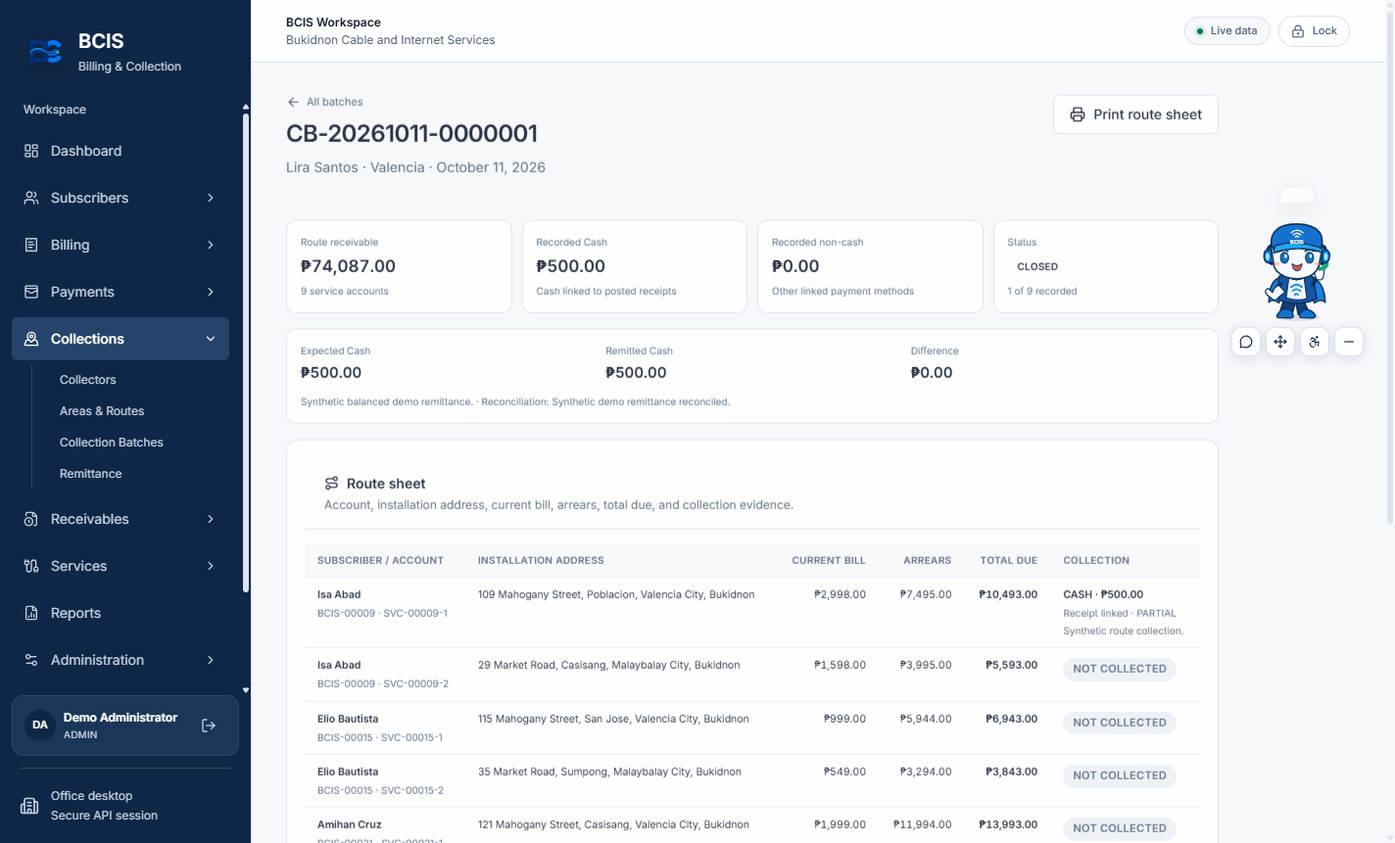
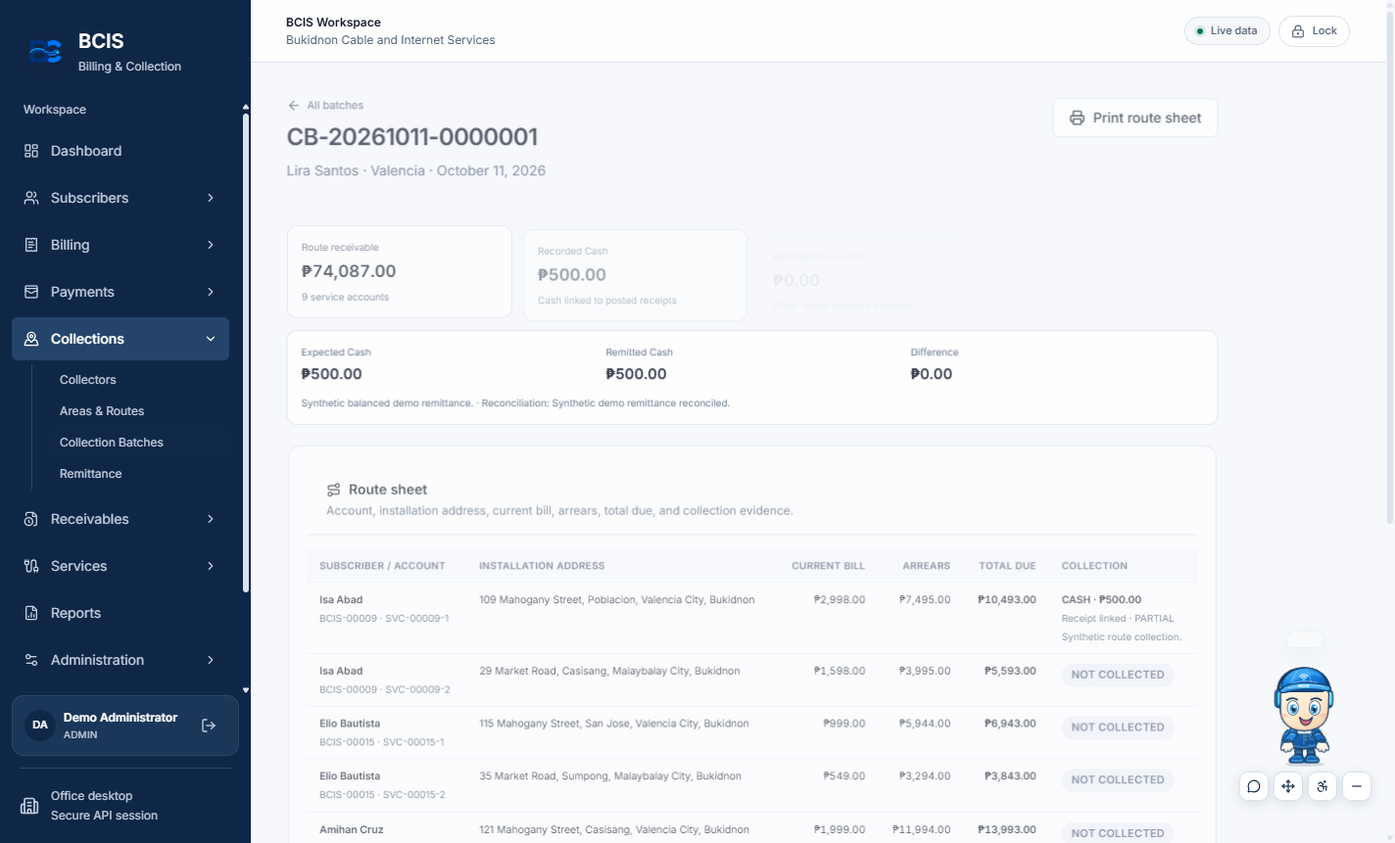
Refactor styles for improved motion and transitions; update backup and restore test evidence
- Removed redundant motion preferences from styles.css and added new animations for workspace elements.
- Updated collection-batch-detail screenshot to reflect recent UI changes.
- Modified backup and restore test evidence (AT-12) with new backup IDs, SHA256 hashes, and adjusted baseline and restored data.
- Updated offline cutover test evidence (AT-12-offline-cutover) with new backup ID, SHA256 hash, and verification timestamps.

diff --git a/apps/desktop/src/renderer/src/features/mascot/MascotCharacter.tsx b/apps/desktop/src/renderer/src/features/mascot/MascotCharacter.tsx
@@ -9,21 +9,27 @@ function WifiMark() {
 
 function Cap({ shadeId }: { shadeId: string }) {
   return <g className="buddy-cap" stroke="#153b68" strokeLinejoin="round" strokeWidth="2.35">
-    <path d="M47 65c1-16 12-26 25-30 13-4 29-3 40 3 11 6 17 16 18 29l-8 8H53z" fill={`url(#${shadeId})`} />
-    <path d="M53 65c22-8 52-8 78-1 7 2 9 7 2 10-23-5-50-5-80 3-9 1-12-5-4-8z" fill="#69caff" />
-    <path d="M67 61q23-9 48-1" fill="none" stroke="#a9e6ff" strokeLinecap="round" strokeWidth="1.4" />
-    <g transform="translate(88 47)" color="#e7f8ff" stroke="none"><WifiMark /></g>
+    <path d="M47 66c1-15 12-26 25-31 14-5 29-4 41 2 11 6 17 16 18 30l-8 8H53z" fill={`url(#${shadeId})`} />
+    <path d="M59 62c4-12 14-20 28-23 15-3 28 1 37 10-18-6-39-4-65 13z" fill="#83d8ff" opacity=".25" stroke="none" />
+    <path d="M77 38c-8 7-12 17-12 29m27-31c7 8 10 18 9 29" fill="none" stroke="#a8e5ff" strokeLinecap="round" strokeWidth="1.05" opacity=".72" />
+    <path d="M53 65c22-8 52-8 78-1 7 2 9 7 2 10-23-5-50-5-80 3-9 1-12-5-4-8z" fill="#47aefa" />
+    <path d="M58 69c23-6 46-7 68-3" fill="none" stroke="#a5e8ff" strokeLinecap="round" strokeWidth="1.4" />
+    <path d="M67 60q22-7 47-1" fill="none" stroke="#c5f1ff" strokeLinecap="round" strokeWidth="1.1" opacity=".8" />
+    <g transform="translate(88 47)" color="#f1fbff" stroke="none"><WifiMark /></g>
     <text x="88" y="67" fill="#f5fbff" stroke="none" textAnchor="middle" fontFamily="Inter, Segoe UI, sans-serif" fontSize="7.4" fontWeight="800" letterSpacing=".75">BCIS</text>
-    <path d="M54 74q32-7 72-1" fill="none" stroke="#0e4a8c" strokeLinecap="round" strokeWidth="1.3" />
+    <path d="M54 74q32-7 72-1" fill="none" stroke="#104b8b" strokeLinecap="round" strokeWidth="1.3" />
   </g>;
 }
 
 function Headphones() {
   return <g className="buddy-headphones" stroke="#12365d" strokeLinejoin="round">
-    <path d="M42 85V75c0-25 19-41 46-41s46 16 46 41v10" fill="none" stroke="#12365d" strokeLinecap="round" strokeWidth="5.5" />
-    <path d="M44 72h8v31h-8c-5 0-8-4-8-9V81c0-5 3-9 8-9m88 0h-8v31h8c5 0 8-4 8-9V81c0-5-3-9-8-9" fill="#2489e7" strokeWidth="2.2" />
-    <path d="M44 79h3v16h-3c-2 0-3-2-3-4v-8c0-2 1-4 3-4m88 0h-3v16h3c2 0 3-2 3-4v-8c0-2-1-4-3-4" fill="#8edcff" stroke="none" />
-    <path d="M45 75v6m86-6v6" stroke="#d9f6ff" strokeLinecap="round" strokeWidth="1.5" />
+    <path d="M42 83V75c0-25 19-41 46-41s46 16 46 41v8" fill="none" stroke="#12365d" strokeLinecap="round" strokeWidth="7" />
+    <path d="M44 76V75c0-22 18-36 44-36s44 14 44 36" fill="none" stroke="#54a9ef" strokeLinecap="round" strokeWidth="2.1" />
+    <path d="M44 71h9v34h-9c-6 0-9-4-9-10V81c0-6 3-10 9-10m88 0h-9v34h9c6 0 9-4 9-10V81c0-6-3-10-9-10" fill="#1679d2" strokeWidth="2.3" />
+    <path d="M45 75h5v26h-5c-4 0-6-3-6-7v-12c0-4 2-7 6-7m90 0h-5v26h5c4 0 6-3 6-7v-12c0-4-2-7-6-7" fill="#4dc9f5" strokeWidth="1.1" />
+    <path d="M46 79h3v18h-3c-2 0-3-2-3-4v-10c0-2 1-4 3-4m88 0h-3v18h3c2 0 3-2 3-4v-10c0-2-1-4-3-4" fill="#a5ebff" stroke="none" />
+    <path d="M44 77v5m92-5v5" stroke="#e0f8ff" strokeLinecap="round" strokeWidth="1.6" />
+    <path d="M42 101q4 4 10 2m76 0q6 2 10-2" fill="none" stroke="#0b4d94" strokeLinecap="round" strokeWidth="1.3" />
   </g>;
 }
 
@@ -34,13 +40,13 @@ function Eyes({ lidId, happy }: { lidId: string; happy: boolean }) {
     <path className="buddy-brow buddy-brow-right" d="M101 90q10-6 19 1" fill="none" stroke="#183c67" strokeLinecap="round" strokeWidth="3" />
     </g>
     <g className="buddy-eye buddy-eye-left">
-      <ellipse cx="68" cy="105" rx="9.7" ry="12.7" fill="#fff" stroke="#264a70" strokeWidth="1.35" />
-      <g className="buddy-iris"><ellipse cx="69" cy="107" rx="6.2" ry="8.1" fill="#2185dd" /><ellipse cx="69" cy="109" rx="3.2" ry="4.8" fill="#172f51" /><circle cx="71" cy="103" r="2.3" fill="#fff" /><circle cx="66" cy="111" r="1.05" fill="#bceaff" /></g>
+      <ellipse cx="68" cy="105" rx="10.1" ry="13.1" fill="#fff" stroke="#264a70" strokeWidth="1.35" />
+      <g className="buddy-iris"><ellipse cx="69" cy="107" rx="6.4" ry="8.4" fill="#168fe0" /><ellipse cx="69" cy="109" rx="3.35" ry="5" fill="#122c50" /><path d="M64 111q4 4 9 0" fill="none" stroke="#62dcff" strokeWidth="1.2" opacity=".85" /><circle cx="71" cy="103" r="2.45" fill="#fff" /><circle cx="66" cy="111" r="1.1" fill="#bceaff" /></g>
       <path className="buddy-lid" d="M58 96q10-9 20 0v16q-10 7-20 0z" fill={`url(#${lidId})`} />
     </g>
     <g className="buddy-eye buddy-eye-right">
-      <ellipse cx="108" cy="105" rx="9.7" ry="12.7" fill="#fff" stroke="#264a70" strokeWidth="1.35" />
-      <g className="buddy-iris"><ellipse cx="107" cy="107" rx="6.2" ry="8.1" fill="#2185dd" /><ellipse cx="107" cy="109" rx="3.2" ry="4.8" fill="#172f51" /><circle cx="109" cy="103" r="2.3" fill="#fff" /><circle cx="104" cy="111" r="1.05" fill="#bceaff" /></g>
+      <ellipse cx="108" cy="105" rx="10.1" ry="13.1" fill="#fff" stroke="#264a70" strokeWidth="1.35" />
+      <g className="buddy-iris"><ellipse cx="107" cy="107" rx="6.4" ry="8.4" fill="#168fe0" /><ellipse cx="107" cy="109" rx="3.35" ry="5" fill="#122c50" /><path d="M102 111q4 4 9 0" fill="none" stroke="#62dcff" strokeWidth="1.2" opacity=".85" /><circle cx="109" cy="103" r="2.45" fill="#fff" /><circle cx="104" cy="111" r="1.1" fill="#bceaff" /></g>
       <path className="buddy-lid" d="M98 96q10-9 20 0v16q-10 7-20 0z" fill={`url(#${lidId})`} />
     </g>
     {happy && <g className="buddy-happy-eyes" fill="none" stroke="#183c67" strokeLinecap="round" strokeWidth="3.1"><path d="M58 106q10-13 20 0" /><path d="M98 106q10-13 20 0" /></g>}
@@ -48,13 +54,14 @@ function Eyes({ lidId, happy }: { lidId: string; happy: boolean }) {
   </g>;
 }
 
-function Face({ mood, lidId }: { mood: MascotMood; lidId: string }) {
+function Face({ mood, lidId, skinId }: { mood: MascotMood; lidId: string; skinId: string }) {
   const concerned = mood === 'concerned';
   const surprised = mood === 'surprised';
   const sleepy = mood === 'sleepy';
   return <g className={`buddy-face mood-face-${mood}`}>
-    <path className="buddy-face-outline" d="M45 80c4-20 19-31 42-32 24-1 42 11 47 31l-1 31c-1 20-16 35-44 36-27 0-42-14-44-34z" fill="#fff8f0" stroke="#183b65" strokeLinejoin="round" strokeWidth="2.4" />
-    <path d="M50 83c4-18 18-27 38-29 20-1 35 8 41 26l-1 7c-12-5-24-7-39-7-14 0-27 3-39 9z" fill="#fff" opacity=".66" />
+    <path className="buddy-face-outline" d="M45 80c4-20 19-31 42-32 24-1 42 11 47 31l-1 31c-1 21-16 36-44 37-27 0-42-14-44-35z" fill={`url(#${skinId})`} stroke="#183b65" strokeLinejoin="round" strokeWidth="2.4" />
+    <path d="M52 85c4-18 18-27 36-29 19-1 33 7 39 24-13-6-25-8-39-8s-25 4-36 13z" fill="#fff" opacity=".48" />
+    <path d="M52 124q4 12 13 15m50 0q9-4 13-15" fill="none" stroke="#efbda6" strokeLinecap="round" strokeWidth="1.15" opacity=".52" />
     <Eyes lidId={lidId} happy={mood === 'happy'} />
     <path className="buddy-mouth" d={surprised ? 'M84 125c0-5 4-8 8-8s8 3 8 8-4 8-8 8-8-3-8-8' : concerned ? 'M83 129q9-9 18 0' : sleepy ? 'M85 127q7 2 13 0' : 'M80 122q12 12 24 0c-2 10-8 15-13 15s-9-5-11-15'} fill={surprised || sleepy || concerned ? 'none' : '#cf5465'} stroke="#183b65" strokeLinecap="round" strokeLinejoin="round" strokeWidth="1.9" />
     {!surprised && !sleepy && !concerned && <path d="M86 130q6 4 12 0" fill="none" stroke="#f6a1a1" strokeLinecap="round" strokeWidth="1.4" />}
@@ -67,8 +74,8 @@ function Face({ mood, lidId }: { mood: MascotMood; lidId: string }) {
   </g>;
 }
 
-function Head({ mood, shadeId, lidId }: { mood: MascotMood; shadeId: string; lidId: string }) {
-  return <g className="buddy-head"><g className="buddy-head-ambient"><g className="buddy-head-turn"><Headphones /><Face mood={mood} lidId={lidId} /><Cap shadeId={shadeId} /></g></g></g>;
+function Head({ mood, shadeId, lidId, skinId }: { mood: MascotMood; shadeId: string; lidId: string; skinId: string }) {
+  return <g className="buddy-head"><g className="buddy-head-ambient"><g className="buddy-head-turn"><Headphones /><Face mood={mood} lidId={lidId} skinId={skinId} /><Cap shadeId={shadeId} /></g></g></g>;
 }
 
 function Hand({ side, mood }: { side: 'left' | 'right'; mood: MascotMood }) {
@@ -78,14 +85,16 @@ function Hand({ side, mood }: { side: 'left' | 'right'; mood: MascotMood }) {
     <g className="buddy-side-art" transform={left ? undefined : 'translate(180 0) scale(-1 1)'}>
       <g className="buddy-upper-arm">
         <path d="M64 151q7-3 13 3l-10 13q-5 5-11 2l-5-5q4-9 13-13z" fill={armColor} stroke="#173b64" strokeLinejoin="round" strokeWidth="2.15" />
-        <path d="M57 163q5 1 9 5" fill="none" stroke="#78c3f0" strokeLinecap="round" strokeWidth="1.35" />
+        <path d="M62 153q5-2 8 1m-13 11q4 2 8 2" fill="none" stroke="#a4dcff" strokeLinecap="round" strokeWidth="1.25" />
       </g>
       <g className={`buddy-elbow buddy-elbow-${side}`}>
         <path d="M59 163q5 1 8 5l-8 12q-4 3-9 0l-4-4q3-8 13-13z" fill={armColor} stroke="#173b64" strokeLinejoin="round" strokeWidth="2.05" />
         <path d="M49 175q5 2 10 0" fill="none" stroke="#8ed4fa" strokeLinecap="round" strokeWidth="1.25" />
         <g className={`buddy-wrist buddy-wrist-${side}`}>
           <g className="buddy-hand-base">
+            <path d="M48 169q3-3 7-2l10 3-2 5q-7 1-13-2z" fill="#f5fbff" stroke="#173b64" strokeLinejoin="round" strokeWidth="1.35" />
             <path className="buddy-glove" d="M56 168q-5-1-7 3l-3 7q-1 4 3 5l3-2q-1 5 3 5 3 0 4-3 2 3 5 1 2-1 1-4 4 1 5-3l-2-7q-2-4-7-2z" fill="#fff5e6" stroke="#173b64" strokeLinejoin="round" strokeWidth="1.8" />
+            <path d="M50 174q1-3 3-3m1 11q2 1 4-1m2 0q2 1 4-1" fill="none" stroke="#d8c7b5" strokeLinecap="round" strokeWidth=".9" />
           </g>
           {left && <g className="buddy-wave-hand"><path d="M55 173q-5-2-6-8l-1-8q1-4 4-3l3 9-1-10q1-4 4-3l2 11 1-8q2-3 4 0l1 9 3-5q3-2 4 1l-3 10q-2 7-9 8z" fill="#fff5e6" stroke="#173b64" strokeLinejoin="round" strokeWidth="1.8" /></g>}
           {!left && mood === 'celebrating' && <g className="buddy-thumbs-up"><path d="M58 165l4-13q2-5 5-3l2 8q7-4 11 0l-2 12q-1 4-6 5l-10-1z" fill="#fff5e6" stroke="#173b64" strokeLinejoin="round" strokeWidth="1.8" /></g>}
@@ -95,36 +104,75 @@ function Hand({ side, mood }: { side: 'left' | 'right'; mood: MascotMood }) {
   </g></g>;
 }
 
-function Body({ mood }: { mood: MascotMood }) {
+function Body({ mood, uniformId }: { mood: MascotMood; uniformId: string }) {
   return <g className="buddy-body">
-    <path className="buddy-cape" d="M57 145q-13 9-13 34l14-6 10-19m48-9q14 9 14 33l-13-6-10-18" fill="#258be1" stroke="#173b64" strokeLinejoin="round" strokeWidth="2.2" />
-    <path className="buddy-uniform" d="M62 140q27-13 54 0l10 35q-7 9-37 9t-37-9z" fill="#1762ac" stroke="#173b64" strokeLinejoin="round" strokeWidth="2.4" />
-    <path d="M71 139l18 9 18-9-5 15H76z" fill="#e9f7ff" stroke="#173b64" strokeLinejoin="round" strokeWidth="1.65" />
-    <path d="M89 150v24" stroke="#9dc8ea" strokeWidth="1.25" />
-    <circle cx="92" cy="158" r="1.15" fill="#ffd66d" /><circle cx="92" cy="165" r="1.15" fill="#ffd66d" />
-    <g className="buddy-chest-badge" transform="translate(107 160) scale(.67)" color="#b9efff">
-      <circle r="11" fill="#124c88" stroke="#6cbbe9" strokeWidth="1.3" /><g transform="translate(0 -1)" stroke="currentColor" strokeWidth="1.8"><WifiMark /></g>
+    <g className="buddy-body-shape" transform="translate(90 140) scale(.92 .92) translate(-90 -140)">
+    <path className="buddy-cape" d="M57 145q-13 7-14 34l15-5 12-21m46-8q14 8 14 34l-14-6-10-18" fill="#238be1" stroke="#173b64" strokeLinejoin="round" strokeWidth="2.2" />
+    <path d="M48 171q7-4 11-1m62-1q6-3 10 1" fill="none" stroke="#a4dcff" strokeLinecap="round" strokeWidth="1.1" opacity=".8" />
+    <path className="buddy-uniform" d="M62 140q27-13 54 0l10 35q-7 9-37 9t-37-9z" fill={`url(#${uniformId})`} stroke="#173b64" strokeLinejoin="round" strokeWidth="2.4" />
+    <path d="M63 148q6-4 12-5m50 5q-6-4-12-5" fill="none" stroke="#63b9f2" strokeLinecap="round" strokeWidth="1.25" />
+    <path d="M71 139l18 9 18-9-5 15H76z" fill="#e8f6ff" stroke="#173b64" strokeLinejoin="round" strokeWidth="1.65" />
+    <path d="M88 150v25" stroke="#86bde5" strokeWidth="1.1" />
+    <path d="M92 153v15" stroke="#0e4b89" strokeWidth=".8" opacity=".8" />
+    <circle cx="92" cy="158" r="1.25" fill="#ffe39a" stroke="#8c6828" strokeWidth=".55" /><circle cx="92" cy="165" r="1.25" fill="#ffe39a" stroke="#8c6828" strokeWidth=".55" />
+    <path d="M97 176h16q3 0 3-3v-7q0-3-3-3h-8" fill="none" stroke="#66b8eb" strokeWidth="1.05" />
+    <g className="buddy-chest-badge" transform="translate(107 158) scale(.67)" color="#c8f3ff">
+      <circle r="11.5" fill="#124c88" stroke="#7bc7ef" strokeWidth="1.3" /><circle r="8.8" fill="none" stroke="#3e8fc6" strokeWidth=".8" /><g transform="translate(0 -1)" stroke="currentColor" strokeWidth="1.8"><WifiMark /></g>
     </g>
-    <path d="M64 146q-4 3-6 9m65-9q4 3 6 9" fill="none" stroke="#71b9ed" strokeLinecap="round" strokeWidth="1.2" />
     {mood === 'processing' && <g className="buddy-workpad"><rect x="69" y="153" width="40" height="24" rx="4" fill="#0d3157" stroke="#173b64" strokeWidth="2" /><rect x="73" y="157" width="32" height="16" rx="2" fill="#bceeff" /><path d="M66 179h47l-4 4H70z" fill="#cfdae3" stroke="#173b64" strokeWidth="1.4" /></g>}
-    <path className="buddy-hem" d="M65 176q24 8 48 0" fill="none" stroke="#5ba4dd" strokeLinecap="round" strokeWidth="1.35" />
+    <path className="buddy-hem" d="M65 176q24 8 48 0" fill="none" stroke="#72b7e7" strokeLinecap="round" strokeWidth="1.35" />
+    </g>
   </g>;
 }
 
 function Legs() {
   return <g className="buddy-legs">
-    <g className="buddy-hip buddy-hip-left"><path d="M72 177h13v8H72z" fill="#245483" /><g className="buddy-knee buddy-knee-left"><path d="M72 184h13v8H72z" fill="#245483" stroke="#173b64" strokeLinejoin="round" strokeWidth="1.8" /><g className="buddy-ankle buddy-ankle-left"><path d="M72 190h13v5H72z" fill="#245483" stroke="#173b64" strokeWidth="1.6" /><g className="buddy-foot buddy-foot-left"><path d="M69 192q8-3 17 1l3 7q0 4-5 4H64q-4-2-2-6z" fill="#1262b2" stroke="#173b64" strokeLinejoin="round" strokeWidth="2.2" /><path d="M65 199q10 2 21 0" fill="none" stroke="#78caff" strokeLinecap="round" strokeWidth="1.35" /></g></g></g><ellipse cx="78" cy="177" rx="6" ry="2" fill="#3989cc" /></g>
-    <g className="buddy-hip buddy-hip-right"><path d="M94 177h13v8H94z" fill="#245483" /><g className="buddy-knee buddy-knee-right"><path d="M94 184h13v8H94z" fill="#245483" stroke="#173b64" strokeLinejoin="round" strokeWidth="1.8" /><g className="buddy-ankle buddy-ankle-right"><path d="M94 190h13v5H94z" fill="#245483" stroke="#173b64" strokeWidth="1.6" /><g className="buddy-foot buddy-foot-right"><path d="M93 193q8-4 17 0l6 6q1 4-4 5H91q-4-2-2-6z" fill="#1262b2" stroke="#173b64" strokeLinejoin="round" strokeWidth="2.2" /><path d="M92 200q10 2 21 0" fill="none" stroke="#78caff" strokeLinecap="round" strokeWidth="1.35" /></g></g></g><ellipse cx="100" cy="177" rx="6" ry="2" fill="#3989cc" /></g>
+    <g className="buddy-hip buddy-hip-left">
+      <path d="M71 172q7-3 15 0l1 13q-7 3-16 0z" fill="#245483" />
+      <ellipse cx="78" cy="177" rx="6" ry="2" fill="#3989cc" />
+      <g className="buddy-knee buddy-knee-left">
+        <path d="M72 183q6 3 13 0l1 9q-7 3-14 0z" fill="#285d8e" stroke="#173b64" strokeLinejoin="round" strokeWidth="1.8" />
+        <path d="M74 185q4 1 8 0" fill="none" stroke="#75b7e6" strokeLinecap="round" strokeWidth="1" />
+        <g className="buddy-ankle buddy-ankle-left">
+          <path d="M72 190q7 2 13 0v6H72z" fill="#245483" stroke="#173b64" strokeWidth="1.6" />
+          <path d="M74 192h9" stroke="#6ba6d4" strokeLinecap="round" strokeWidth=".9" />
+          <g className="buddy-foot buddy-foot-left">
+            <path d="M69 193q8-4 17 0l4 7q0 4-5 5H64q-4-2-2-6z" fill="#1262b2" stroke="#173b64" strokeLinejoin="round" strokeWidth="2.2" />
+            <path d="M66 196q8-4 16-1" fill="none" stroke="#4db8f5" strokeLinecap="round" strokeWidth="1.5" />
+            <path d="M65 201q10 2 21 0" fill="none" stroke="#a5e6ff" strokeLinecap="round" strokeWidth="1.25" />
+            <path d="M62 204q9 3 25 0" fill="none" stroke="#0a3d78" strokeLinecap="round" strokeWidth="1.1" />
+          </g>
+        </g>
+      </g>
+    </g>
+    <g className="buddy-hip buddy-hip-right">
+      <path d="M94 172q7-3 13 0l1 13q-7 3-14 0z" fill="#245483" />
+      <ellipse cx="100" cy="177" rx="6" ry="2" fill="#3989cc" />
+      <g className="buddy-knee buddy-knee-right">
+        <path d="M94 183q7 3 14 0l1 9q-7 3-14 0z" fill="#285d8e" stroke="#173b64" strokeLinejoin="round" strokeWidth="1.8" />
+        <path d="M97 185q4 1 8 0" fill="none" stroke="#75b7e6" strokeLinecap="round" strokeWidth="1" />
+        <g className="buddy-ankle buddy-ankle-right">
+          <path d="M94 190q7 2 14 0v6H94z" fill="#245483" stroke="#173b64" strokeWidth="1.6" />
+          <path d="M96 192h10" stroke="#6ba6d4" strokeLinecap="round" strokeWidth=".9" />
+          <g className="buddy-foot buddy-foot-right">
+            <path d="M93 193q8-4 17 0l6 6q1 4-4 6H91q-4-2-2-6z" fill="#1262b2" stroke="#173b64" strokeLinejoin="round" strokeWidth="2.2" />
+            <path d="M94 196q8-4 16 0" fill="none" stroke="#4db8f5" strokeLinecap="round" strokeWidth="1.5" />
+            <path d="M93 201q10 2 21 0" fill="none" stroke="#a5e6ff" strokeLinecap="round" strokeWidth="1.25" />
+            <path d="M90 204q10 3 26 0" fill="none" stroke="#0a3d78" strokeLinecap="round" strokeWidth="1.1" />
+          </g>
+        </g>
+      </g>
+    </g>
   </g>;
 }
 
-function CharacterArt({ mood, shadeId, lidId }: { mood: MascotMood; shadeId: string; lidId: string }) {
+function CharacterArt({ mood, shadeId, lidId, skinId, uniformId }: { mood: MascotMood; shadeId: string; lidId: string; skinId: string; uniformId: string }) {
   return <>
     <ellipse className="buddy-shadow" cx="90" cy="208" rx="36" ry="4" fill="#102a47" opacity=".15" />
     <g className="buddy-life-motion"><g className="buddy-body-root"><g className="buddy-action-pose">
       <Legs />
-      <g className="buddy-torso-rig"><g className="buddy-torso-ambient"><Body mood={mood} /><g className="buddy-shoulders"><Hand side="left" mood={mood} /><Hand side="right" mood={mood} /></g></g></g>
-      <g className="buddy-neck"><g className="buddy-head-pivot"><Head mood={mood} shadeId={shadeId} lidId={lidId} /></g></g>
+      <g className="buddy-torso-rig"><g className="buddy-torso-ambient"><Body mood={mood} uniformId={uniformId} /><g className="buddy-shoulders"><Hand side="left" mood={mood} /><Hand side="right" mood={mood} /></g></g></g>
+      <g className="buddy-neck"><g className="buddy-head-pivot"><Head mood={mood} shadeId={shadeId} lidId={lidId} skinId={skinId} /></g></g>
       {mood === 'celebrating' && <g className="buddy-success-check"><circle cx="139" cy="128" r="8" fill="#159b77" /><path d="M135 128l3 3 5-6" fill="none" stroke="#fff" strokeLinecap="round" strokeLinejoin="round" strokeWidth="1.8" /></g>}
     </g></g></g>
   </>;
@@ -134,6 +182,8 @@ export function MascotCharacter({ mood, animation = 'idle', animationRequestId =
   const id = useId().replaceAll(':', '');
   const shadeId = `${id}-cap-shade`;
   const lidId = `${id}-lid-shade`;
+  const skinId = `${id}-skin`;
+  const uniformId = `${id}-uniform`;
   const artRef = useRef<SVGSVGElement>(null);
   const previousRequest = useRef({ animation, requestId: animationRequestId });
 
@@ -149,9 +199,11 @@ export function MascotCharacter({ mood, animation = 'idle', animationRequestId =
 
   return <svg ref={artRef} className={`mascot-art mood-${mood} anim-${animation}${idleBehavior ? ` ambient-${idleBehavior}` : ''}${compact ? ' mascot-art-compact' : ''}${paused ? ' is-paused' : ''}${reducedMotion ? ' is-reduced-motion' : ''}${handingOff ? ' is-handing-off' : ''}`} viewBox="0 0 180 216" role="img" aria-hidden={compact || undefined} aria-label={`BCIS Buddy, ${mood}`}>
     <defs>
-      <linearGradient id={shadeId} x1=".15" y1="0" x2=".8" y2="1"><stop stopColor="#53baff" /><stop offset=".52" stopColor="#1674c9" /><stop offset="1" stopColor="#14529b" /></linearGradient>
+      <linearGradient id={shadeId} x1=".15" y1="0" x2=".8" y2="1"><stop stopColor="#68caff" /><stop offset=".46" stopColor="#1682e5" /><stop offset="1" stopColor="#104b9b" /></linearGradient>
       <linearGradient id={lidId} x1="0" y1="0" x2="0" y2="1"><stop stopColor="#fff8f0" /><stop offset="1" stopColor="#f0d8c8" /></linearGradient>
+      <linearGradient id={skinId} x1=".25" y1="0" x2=".78" y2="1"><stop stopColor="#fff9ee" /><stop offset=".62" stopColor="#ffe8ca" /><stop offset="1" stopColor="#f7cfad" /></linearGradient>
+      <linearGradient id={uniformId} x1=".2" y1="0" x2=".8" y2="1"><stop stopColor="#2385d2" /><stop offset=".42" stopColor="#1765b1" /><stop offset="1" stopColor="#104887" /></linearGradient>
     </defs>
-    <g className="buddy-character"><CharacterArt mood={mood} shadeId={shadeId} lidId={lidId} /></g>
+    <g className="buddy-character"><CharacterArt mood={mood} shadeId={shadeId} lidId={lidId} skinId={skinId} uniformId={uniformId} /></g>
   </svg>;
 }

diff --git a/apps/desktop/src/renderer/src/styles.css b/apps/desktop/src/renderer/src/styles.css
@@ -61,7 +61,6 @@
 @media (max-width:1300px){.metric-grid{grid-template-columns:repeat(3,minmax(0,1fr))}}
 @media (max-width:1100px){.metric-grid{grid-template-columns:repeat(2,minmax(0,1fr))}.dashboard-grid{grid-template-columns:1fr}.collections-chart,.collector-card,.recent-card,.aging-card{grid-column:1}.attention-grid{grid-template-columns:repeat(2,minmax(0,1fr))}.report-controls{flex-wrap:wrap}.filter-title{width:100%}}
 @media (max-width:640px){.metric-grid{grid-template-columns:1fr}.dashboard-heading{align-items:stretch;flex-direction:column}.dashboard-period{max-width:none}.dashboard-attention>header{align-items:flex-start;flex-direction:column;gap:4px}.attention-grid{grid-template-columns:1fr}.comparison-chart{padding-right:12px;padding-left:12px}.dense-table th,.dense-table td{padding:9px 10px}}
-@media (prefers-reduced-motion:reduce){*,*::before,*::after{animation-duration:.01ms!important;animation-iteration-count:1!important;transition-duration:.01ms!important;scroll-behavior:auto!important}}
 @media (prefers-reduced-transparency:reduce){.metric-card,.insight-card{background:#fff}}
 @media print{
   @page{size:A4 landscape;margin:12mm}.sidebar,.topbar,.no-print,.app-footer{display:none!important}.app-shell,.main-shell{display:block;min-height:0}.main-shell main{padding:0}.content-enter{animation:none}.report-paper{border:0;border-radius:0;overflow:visible}.report-paper>header{padding:0 0 12px;break-inside:avoid}.report-table-wrap{overflow:visible}.report-table{min-width:0;font-size:8pt}.report-table thead{display:table-header-group}.report-table tr{break-inside:avoid}.report-table th{background:#eaf0f7!important;color:#152f4e!important;-webkit-print-color-adjust:exact;print-color-adjust:exact}.report-table th,.report-table td{padding:5px 6px}.report-totals{break-inside:avoid;background:#f2f5f9!important;-webkit-print-color-adjust:exact;print-color-adjust:exact}.reports-page>.page-state,.reports-page>.empty-state{display:none}.print-brand{display:flex}
@@ -535,7 +534,6 @@
   }
   @media (max-width: 680px) { .payment-form-grid,.payment-balance-summary { @apply grid-cols-1; }.payment-notes { grid-column:auto; }.payment-submit-row,.payment-reversal-form { @apply flex-col items-stretch; }.payment-detail-grid { @apply grid-cols-1; }.table-pagination { @apply flex-col items-start gap-3; } }
   @media (prefers-reduced-transparency: reduce) { .topbar { @apply bg-surface; backdrop-filter: none; } }
-  @media (prefers-reduced-motion: reduce) { * { animation: none !important; transition: none !important; } }
 }
 
 @media (max-width: 900px) {
@@ -553,6 +551,162 @@
 @media(max-width:680px){.gcash-review-workspace>.page-heading{align-items:start;flex-direction:column}.gcash-queue-list{grid-template-columns:1fr}.gcash-review-meta{grid-template-columns:1fr}.gcash-review-meta .gcash-hash{grid-column:auto}.gcash-decision-buttons{flex-direction:column-reverse}.gcash-decision-buttons button{width:100%}.collection-summary-grid{grid-template-columns:1fr 1fr}.collection-create-form{grid-template-columns:1fr}.collection-create-form>button{grid-column:auto}.collection-variance{grid-template-columns:1fr}.collection-variance p{grid-column:auto}.collection-actions{display:grid}.collection-actions form{min-width:0}}
 @media(prefers-reduced-motion:reduce){.gcash-queue-list>button{transition:none}}
 @media print{body{background:#fff!important}.sidebar,.topbar,.no-print,.collection-actions,.collection-summary-grid{display:none!important}.main-shell,main,.collection-batch-detail{display:block!important;width:100%!important;margin:0!important;padding:0!important}.route-sheet{border:0!important;box-shadow:none!important;padding:0!important}.route-sheet .report-table{width:100%;font-size:9pt}.route-sheet .report-table th,.route-sheet .report-table td{padding:7px 5px!important}.collection-batch-detail>.page-heading{display:block!important;margin-bottom:16px!important}.collection-batch-detail>.page-heading h1{font-size:20pt}.collection-batch-detail>.page-heading p{font-size:10pt}}
+
+/* Workspace motion: energetic page changes, quiet feedback for repeated actions. */
+:root {
+  --motion-ease-out: cubic-bezier(0.23, 1, 0.32, 1);
+}
+
+.content-enter {
+  animation: workspace-arrive 320ms var(--motion-ease-out) both;
+}
+
+.content-enter > .page-heading,
+.content-enter > header.page-heading {
+  animation: workspace-heading-arrive 380ms var(--motion-ease-out) both;
+}
+
+.metric-card,
+.insight-card,
+.dashboard-attention,
+.attention-card,
+.list-surface,
+.form-section,
+.connection-panel,
+.module-ready,
+.report-paper,
+.collection-summary-grid > article {
+  animation: workspace-card-arrive 420ms var(--motion-ease-out) both;
+}
+
+.metric-card:nth-child(2), .attention-card:nth-child(2), .collection-summary-grid > article:nth-child(2) { animation-delay: 45ms; }
+.metric-card:nth-child(3), .attention-card:nth-child(3), .collection-summary-grid > article:nth-child(3) { animation-delay: 90ms; }
+.metric-card:nth-child(4), .collection-summary-grid > article:nth-child(4) { animation-delay: 135ms; }
+.metric-card:nth-child(5) { animation-delay: 180ms; }
+.dashboard-grid > .insight-card:nth-child(2) { animation-delay: 60ms; }
+.dashboard-grid > .insight-card:nth-child(3) { animation-delay: 120ms; }
+
+.dialog-backdrop { animation: backdrop-arrive 180ms ease-out both; }
+.edit-dialog, .service-dialog, .status-dialog { animation: dialog-arrive 240ms var(--motion-ease-out) both; }
+
+.comparison-bar,
+.aging-bar i,
+.progress-track span,
+.bar-track span {
+  transition: height 520ms var(--motion-ease-out), transform 180ms var(--motion-ease-out), opacity 180ms ease;
+  transform-origin: bottom;
+}
+
+.main-shell .nav-item,
+.main-shell .subnav-item,
+.main-shell .icon-button,
+.main-shell .lock-button,
+.main-shell button:not(.mascot-control),
+.main-shell .plan-card,
+.main-shell .attention-card,
+.main-shell .metric-card {
+  transition: transform 160ms var(--motion-ease-out), box-shadow 180ms ease, background-color 160ms ease, border-color 160ms ease, color 160ms ease;
+}
+
+@media (hover: hover) and (pointer: fine) {
+  .main-shell .nav-item:not(:disabled):hover,
+  .main-shell .subnav-item:hover,
+  .main-shell .icon-button:not(:disabled):hover,
+  .main-shell .lock-button:not(:disabled):hover,
+  .main-shell button:not(:disabled):not(.mascot-control):hover {
+    transform: translateY(-1px);
+  }
+
+  .main-shell .metric-card:hover,
+  .main-shell .attention-card:hover,
+  .main-shell .plan-card:hover {
+    transform: translateY(-3px);
+    box-shadow: 0 12px 28px rgba(15, 39, 71, .1);
+  }
+}
+
+.main-shell button:not(:disabled):active,
+.main-shell .nav-item:not(:disabled):active,
+.main-shell .subnav-item:active,
+.main-shell .icon-button:not(:disabled):active {
+  transform: scale(.975);
+  transition-duration: 90ms;
+}
+
+.main-shell .data-table tbody tr,
+.main-shell .dense-table tbody tr {
+  transition: background-color 150ms ease;
+}
+
+.main-shell input,
+.main-shell select,
+.main-shell textarea,
+.main-shell .search-field {
+  transition: border-color 150ms ease, box-shadow 150ms ease;
+}
+
+@keyframes workspace-arrive {
+  from { opacity: 0; transform: translateY(12px) scale(.992); }
+  to { opacity: 1; transform: translateY(0) scale(1); }
+}
+
+@keyframes workspace-heading-arrive {
+  from { opacity: 0; transform: translateY(8px); }
+  to { opacity: 1; transform: translateY(0); }
+}
+
+@keyframes workspace-card-arrive {
+  from { opacity: 0; transform: translateY(14px) scale(.985); }
+  to { opacity: 1; transform: translateY(0) scale(1); }
+}
+
+@keyframes backdrop-arrive {
+  from { opacity: 0; }
+  to { opacity: 1; }
+}
+
+@keyframes dialog-arrive {
+  from { opacity: 0; transform: translateY(10px) scale(.97); }
+  to { opacity: 1; transform: translateY(0) scale(1); }
+}
+
+@media (prefers-reduced-motion: reduce) {
+  .content-enter,
+  .content-enter > .page-heading,
+  .content-enter > header.page-heading,
+  .metric-card,
+  .insight-card,
+  .dashboard-attention,
+  .attention-card,
+  .list-surface,
+  .form-section,
+  .connection-panel,
+  .module-ready,
+  .report-paper,
+  .collection-summary-grid > article,
+  .dialog-backdrop,
+  .edit-dialog,
+  .service-dialog,
+  .status-dialog {
+    animation: none !important;
+  }
+
+  .main-shell button,
+  .main-shell .nav-item,
+  .main-shell .subnav-item,
+  .main-shell .icon-button,
+  .main-shell .lock-button,
+  .main-shell .metric-card,
+  .main-shell .attention-card,
+  .main-shell .plan-card {
+    transition: color 180ms ease, background-color 180ms ease, border-color 180ms ease, opacity 180ms ease !important;
+  }
+
+  .comparison-bar,
+  .aging-bar i,
+  .progress-track span,
+  .bar-track span { transition: opacity 180ms ease !important; }
+}
 .service-control-workspace{display:grid;gap:16px}.service-control-summary{display:grid;grid-template-columns:repeat(3,minmax(0,1fr));gap:10px}.service-control-summary article{display:grid;gap:6px;border:1px solid var(--color-border);border-radius:10px;background:#fff;padding:14px}.service-control-summary article span{color:var(--color-secondary);font-size:10px}.service-control-summary article strong{font-size:17px;font-variant-numeric:tabular-nums}.service-control-table{overflow:hidden}.service-control-table .section-heading{padding:16px 18px 0}.service-control-table td strong,.service-control-table td small{display:block}.service-control-table td small{margin-top:4px;color:var(--color-secondary);font-size:10px}.service-control-form{display:grid;grid-template-columns:repeat(3,minmax(0,1fr));align-items:end;gap:12px;border-top:1px solid var(--color-border);background:#fafbfd;padding:16px}.service-control-form h2,.service-control-form>p{grid-column:1/-1}.service-control-form h2{font-size:14px}.service-control-form>p{margin-top:-8px;color:var(--color-secondary);font-size:10px}.service-control-form>div{display:flex;gap:8px}.service-control-form>.form-alert{grid-column:1/-1}.service-assignment-controls{display:grid;min-width:190px;gap:6px}.service-assignment-controls .text-input,.service-assignment-controls .select-input{min-height:33px;padding:5px 8px;font-size:10px}.service-policy-form{display:grid;max-width:720px;grid-template-columns:repeat(2,minmax(0,1fr));gap:16px;padding:18px}.service-policy-form .section-heading,.service-policy-form .service-policy-actions,.service-policy-form>.form-alert{grid-column:1/-1}.service-policy-form .section-heading{margin-bottom:0}.service-policy-form .field-label small{color:var(--color-secondary);font-size:10px;font-weight:400}.service-policy-actions{display:flex;gap:8px;border-top:1px solid var(--color-border);padding-top:14px}
 @media(max-width:680px){.service-control-summary{grid-template-columns:1fr}.service-control-form,.service-policy-form{grid-template-columns:1fr}.service-control-form h2,.service-control-form>p,.service-control-form>.form-alert,.service-policy-form .section-heading,.service-policy-form .service-policy-actions,.service-policy-form>.form-alert{grid-column:auto}.service-control-form>div{flex-wrap:wrap}}
 .account-receivable-filters{grid-template-columns:repeat(4,minmax(0,1fr))}.account-receivable-totals{grid-template-columns:repeat(3,minmax(0,1fr))}
